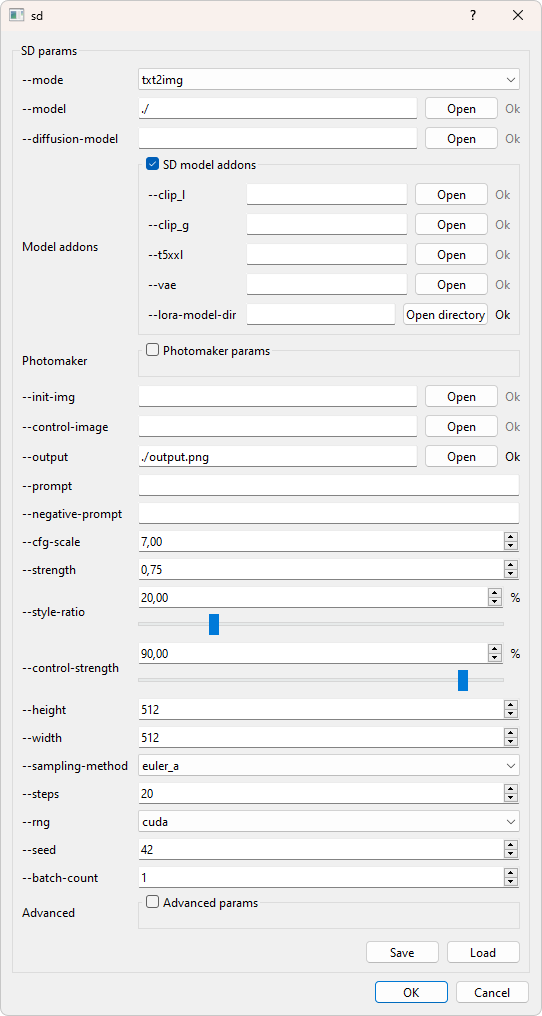
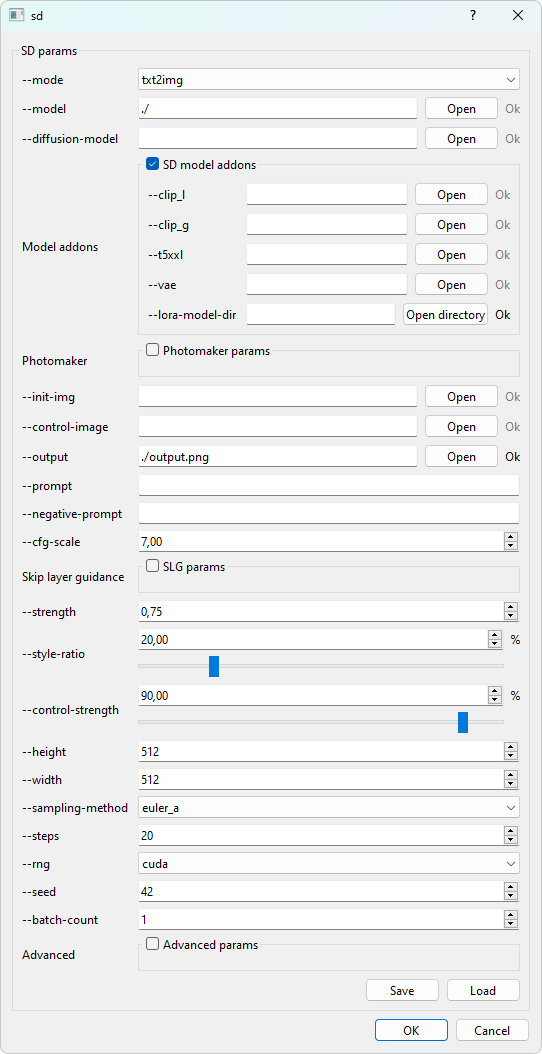
update

diff --git a/examples/cli/main_glove.h b/examples/cli/main_glove.h
@@ -22,12 +22,13 @@ glvm_parametrization(GlvSDParamsAdvanced, "Advanced params",
                         embd_dir, SlvDirectory, "--embd-dir", "path to embeddings", SlvDirectory(),
                         upscale_model, SlvFile, "--upscale-model", "path to esrgan model. Upscale images after generate, just RealESRGAN_x4plus_anime_6B supported by now", SlvFile(SlvFile::IO::Read),
                         upscale_repeats, unsigned int, "--upscale-repeats", "Run the ESRGAN upscaler this many times (default 1)", 1,
-                        type, WeightType, "--type", "weight type (f32, f16, q4_0, q4_1, q5_0, q5_1, q8_0, q2_k, q3_k, q4_k) \nIf not specified, the default is the type of the weight file", WeightType::weight_file_type,
+                        type, WeightType, "--type", "weight type (examples: f32, f16, q4_0, q4_1, q5_0, q5_1, q8_0, q2_k, q3_k, q4_k) \nIf not specified, the default is the type of the weight file", WeightType::weight_file_type,
                         schedule, Schedule, "--schedule", "Denoiser sigma schedule (default: discrete)", Schedule::discrete,
                         clip_skip, int, "--clip-skip", "ignore last layers of CLIP network; 1 ignores none, 2 ignores one layer (default: -1) \n<= 0 represents unspecified, will be 1 for SD1.x, 2 for SD2.x", -1,
                         vae_tiling, bool, "--vae-tiling", "process vae in tiles to reduce memory usage", false,
                         vae_on_cpu, bool, "--vae-on-cpu", "keep vae in cpu (for low vram)", false,
                         clip_on_cpu, bool, "--clip-on-cpu", "keep clip in cpu (for low vram)", false,
+                        diffusion_fa, bool, "--diffusion-fa", "use flash attention in the diffusion model (for low vram)\nMight lower quality, since it implies converting k and v to f16.\nThis might crash if it is not supported by the backend.", false,
                         control_net_cpu, bool, "--control-net-cpu", "keep controlnet in cpu (for low vram)", false,
                         canny, bool, "--canny", "apply canny preprocessor (edge detection)", false,
                         color, bool, "--color", "colors the logging tags according to level", false,
@@ -39,6 +40,13 @@ glvm_parametrization(GlvSDModelAddons, "SD model addons",
     t5xxl, SlvFile, "--t5xxl", "path to the the t5xxl text encoder", SlvFile(SlvFile::IO::Read),
     vae, SlvFile, "--vae", "path to vae", SlvFile("", SlvFileExtensions({".safetensors", ".sft"}), SlvFile::IO::Read),
     lora_model_dir, SlvDirectory, "--lora-model-dir", "lora model directory", SlvDirectory())
+
+glvm_parametrization(GlvSDModelSLG, "SLG params",
+    slg_scale, float, "--slg-scale", "skip layer guidance (SLG) scale, only for DiT models: (default: 0)\n0 means disabled, a value of 2.5 is nice for sd3.5 medium.", 0.f,
+    skip_layers, std::vector<unsigned int>, "--skip-layers", "Layers to skip for SLG steps: (default: [7,8,9])", std::vector<unsigned int>({7, 8, 9}),
+    skip_layer_start, float, "--skip-layer-start", "SLG enabling point: (default: 0.01)", 0.01f,
+    skip_layer_end, float, "--skip-layer-end", "SLG disabling point: (default: 0.2)\nSLG will be enabled at step int([STEPS]*[START]) and disabled at int([STEPS]*[END])", 0.2f)
+
 
 glvm_parametrization(GlvSDParams, "SD params",
     mode, ProcessingMode, "--mode", "run mode (txt2img or img2img or convert, default: txt2img)", ProcessingMode::text_to_image,
@@ -52,6 +60,7 @@ glvm_parametrization(GlvSDParams, "SD params",
     prompt, std::string, "--prompt", "the prompt to render", "",
     negative_prompt, std::string, "--negative-prompt", "the negative prompt (default: '')", "",
     cfg_scale, float, "--cfg-scale", "unconditional guidance scale: (default: 7.0)", 7.0f,
+    SLG, GlvSDModelSLG, "Skip layer guidance", "", GlvSDModelSLG(),
     strength, float, "--strength", "strength for noising/unnoising (default: 0.75)", 0.75f,
     style_ratio, SlvProportion, "--style-ratio", "strength for keeping input identity (default: 20%)", 0.2f,
     control_strength, SlvProportion, "--control-strength", "strength to apply Control Net (default: 0.9) \n1.0 corresponds to full destruction of information in init", 0.9f,
